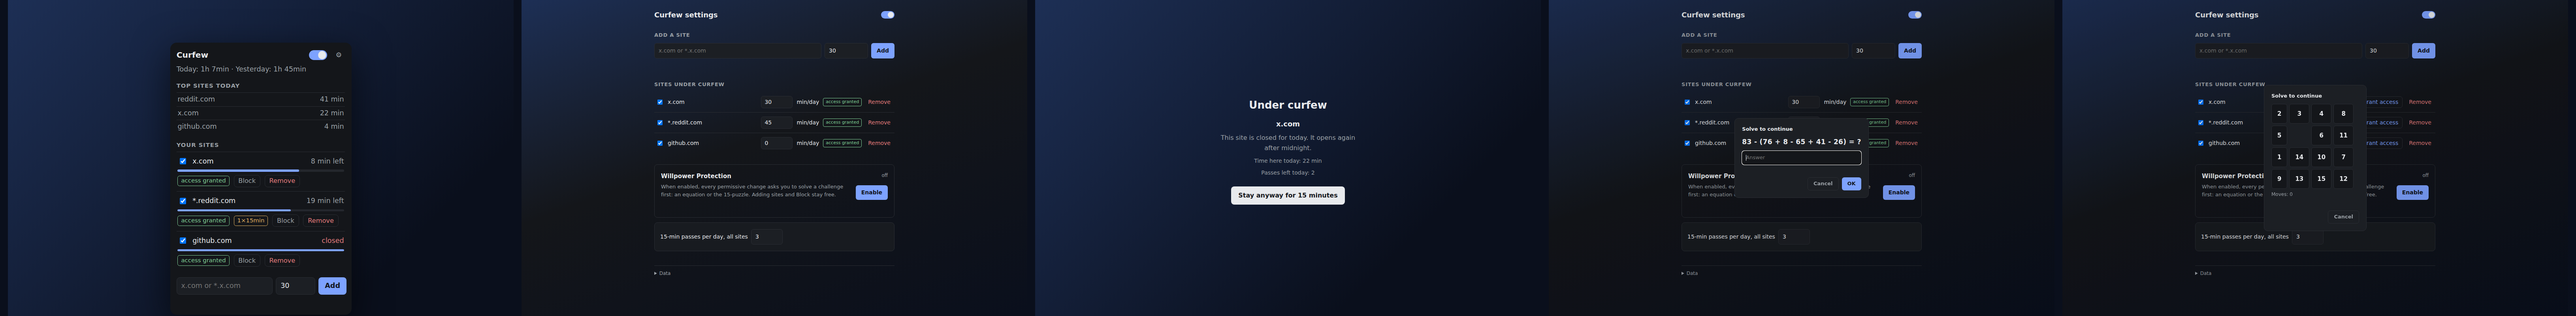
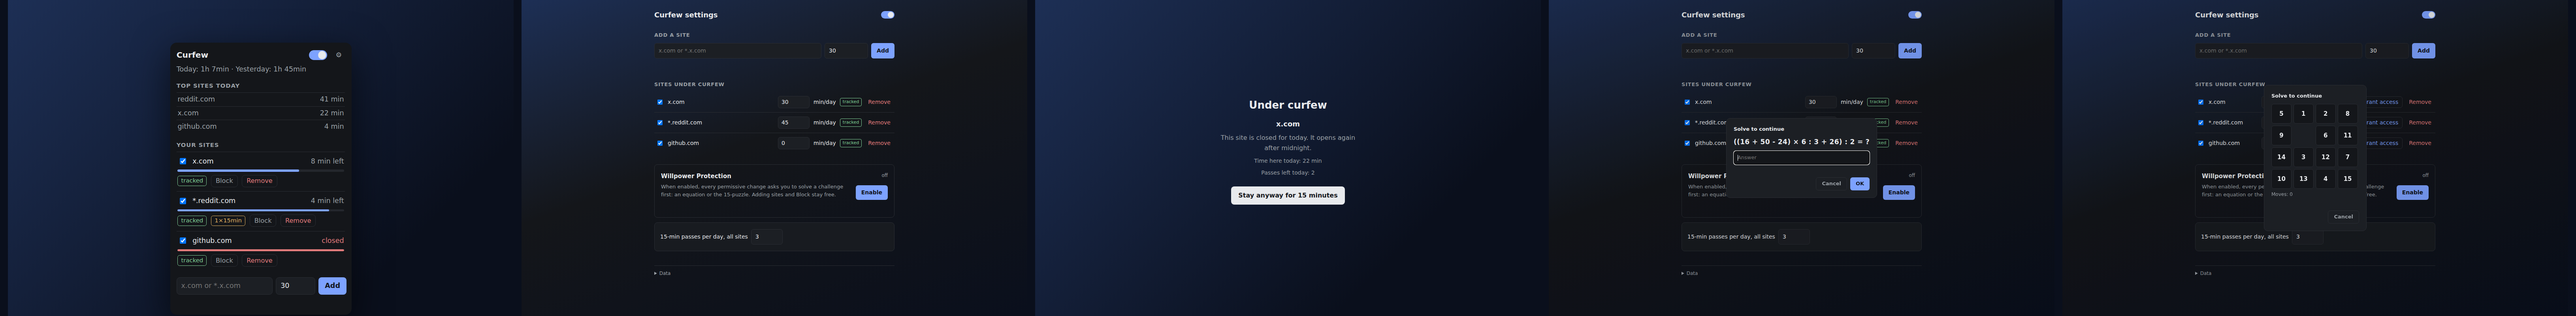
feat: pass allowance only while its window is live (bar fills to 100% when closed); badge wording tracked/not-tracked + tooltips; danger bar when closed

diff --git a/src/popup.js b/src/popup.js
@@ -7,7 +7,7 @@ import {
   onChanged,
 } from "./common/storage.js";
 import { parsePattern, patternToString, toMatchOrigins } from "./common/patterns.js";
-import { secondsUsedToday, dailyTotals, effectiveBudgetSeconds } from "./common/budget.js";
+import { secondsUsedToday, dailyTotals, effectiveBudgetSeconds, unblockWindowActive } from "./common/budget.js";
 import { isOpen } from "./common/rules.js";
 import { dayKey, previousDayKey } from "./common/time.js";
 import { guarded } from "./protect.js";
@@ -189,12 +189,12 @@ function buildRow(item, state) {
   const now = Date.now();
   const open = isOpen(state, item, dayKey(now), now);
   const used = secondsUsedToday(state, item.pattern);
-  const effective = effectiveBudgetSeconds(
-    item,
-    state,
-    dayKey(now),
-    state.config.unblockMinutes
-  );
+  const windowLive = unblockWindowActive(state, item.pattern, now);
+  // Pass minutes count only while their window is live: after the window
+  // expires the unused remainder is forfeit, so the bar fills to 100%.
+  const effective = windowLive
+    ? effectiveBudgetSeconds(item, state, dayKey(now), state.config.unblockMinutes)
+    : Math.max(0, (item.budgetMinutes ?? 0) * 60);
   const left = Math.max(0, effective - used);
   const remaining = document.createElement("span");
   remaining.className = "remaining" + (open ? "" : " closed");
@@ -205,7 +205,7 @@ function buildRow(item, state) {
   line1.append(enabled, name, remaining);
 
   const bar = document.createElement("div");
-  bar.className = "bar";
+  bar.className = "bar" + (open ? "" : " done");
   const fill = document.createElement("i");
   const ratio = effective > 0 ? Math.min(1, used / effective) : 1;
   fill.style.width = `${Math.round(ratio * 100)}%`;
@@ -217,6 +217,7 @@ function buildRow(item, state) {
   const badge = document.createElement("span");
   badge.className = "badge" + (item.access === "granted" ? " granted" : "");
   badge.textContent = msg(item.access === "granted" ? "accessGranted" : "accessDenied");
+  badge.title = msg(item.access === "granted" ? "badgeTitleGranted" : "badgeTitleDenied");
 
   line2.append(badge);
 

diff --git a/src/common/rules.js b/src/common/rules.js
@@ -1,5 +1,5 @@
 import { parsePattern, toDnrCondition } from "./patterns.js";
-import { decide, secondsUsedToday } from "./budget.js";
+import { decide, secondsUsedToday, unblockWindowActive } from "./budget.js";
 
 /**
  * "open" from the ENFORCEMENT point of view: no rule should exist.
@@ -9,8 +9,7 @@ import { decide, secondsUsedToday } from "./budget.js";
  */
 export function isOpen(state, item, day, nowMs) {
   if (item.access !== "granted") return true;
-  const until = state.runtime.unblockUntil[item.pattern];
-  if (Number.isFinite(until) && until > nowMs) return true;
+  if (unblockWindowActive(state, item.pattern, nowMs)) return true;
   const override = state.runtime.dayOverrides?.[item.pattern];
   if (override && override.day === day) return override.action === "allow";
   return decide(item, secondsUsedToday(state, item.pattern, day), state.config.masterEnabled) === "open";

diff --git a/src/common/budget.js b/src/common/budget.js
@@ -47,6 +47,12 @@ export function dailyTotals(state, day) {
   };
 }
 
+/** Is the 15-minute pass window currently live for a pattern? */
+export function unblockWindowActive(state, pattern, nowMs) {
+  const until = state?.runtime?.unblockUntil?.[pattern];
+  return Number.isFinite(until) && until > nowMs;
+}
+
 /** Effective daily budget for an item: base budget extended by
  *  unblockMinutes for every pass burned on this pattern today. Passes
  *  extend the allowance — they never pause the accounting. */

diff --git a/src/popup.css b/src/popup.css
@@ -190,6 +190,8 @@ li.empty {
   border-radius: 2px;
 }
 
+.bar.done i { background: var(--danger); }
+
 .site-row .actions { flex-wrap: wrap; row-gap: 6px; }
 
 .badge {
